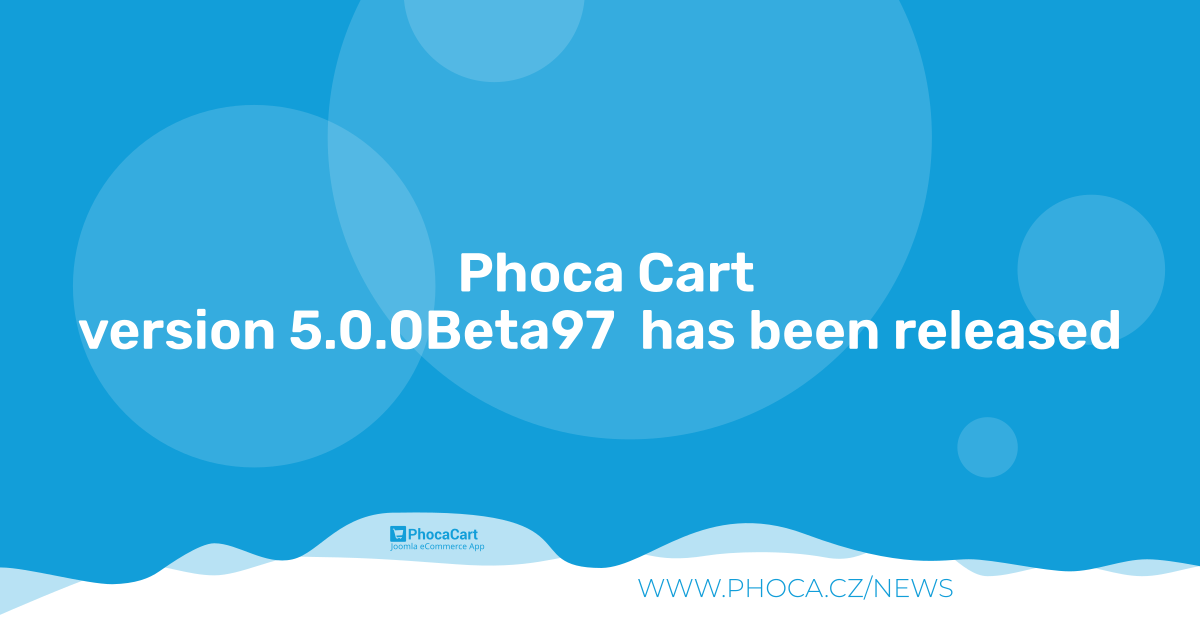
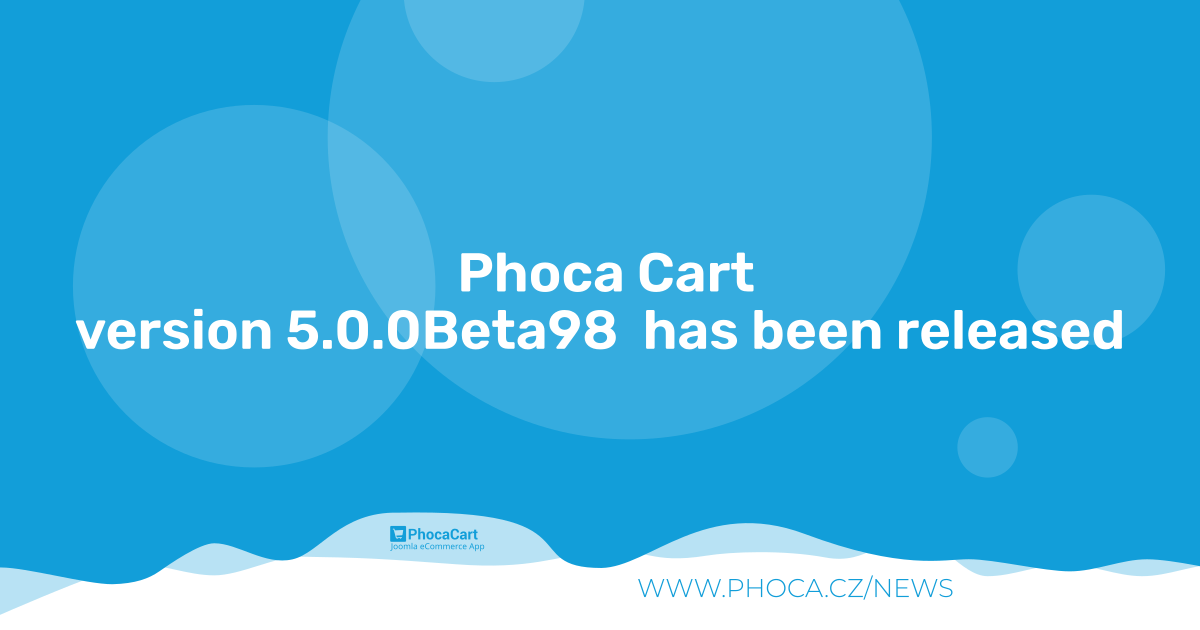
5.0.0Beta98

Changed region(s): [[0.0617, 0.4825, 0.9558, 0.573]]

diff --git a/media/css/administrator/theme-dark.css b/media/css/administrator/theme-dark.css
@@ -10,18 +10,20 @@
 	}
 
     .ph-cpanel-logo {
-        padding: 0.5em;
-        background: rgb(255,255,255, 0.5);
-        margin-bottom: 1em
+       /* padding: 0.5em;
+        background: rgb(255,255,255, 0.5);*/
+        margin-bottom: 1em;
+    }
+
+    .ph-cpanel-logo img {
+        filter: invert(1) brightness(2);
+        width: 16rem;
     }
 
     .ph-box-info .ph-cpanel-logo {
         display: inline-block;
     }
 
-    .ph-box-info .ph-cpanel-logo img {
-        max-width: 100%;
-    }
 
     .ph-cp-item-icon {
         background: rgb(72, 86, 106);

diff --git a/media/css/administrator/phocacart.css b/media/css/administrator/phocacart.css
@@ -1691,10 +1691,13 @@ table.ph-report-table tr.ph-report-total-row td.ph-report-total-col1 {
 	border-top: 3px solid #eee;
 	margin-bottom: 1em;
 }
+.ph-cpanel-logo {
+	margin-bottom: 1em;
+}
 .ph-cpanel-logo img {
 	/*transform: scale(0.6);
 	transform-origin: 0 50%;*/
-	max-width: 70%;
+	width: 16rem;
 	height: auto;
 }
 

diff --git a/admin/views/phocacartinfo/tmpl/default.php b/admin/views/phocacartinfo/tmpl/default.php
@@ -19,7 +19,7 @@ echo $r->startCp();
 echo '<div class="ph-box-info">';
 
 echo '<div style="float:right;margin:10px;">' . HTMLHelper::_('image', $this->t['i'] . 'logo-phoca.png', 'Phoca.cz' ) .'</div>'
-	. '<div class="ph-cpanel-logo">'.HTMLHelper::_('image', $this->t['i'] . 'logo-'.str_replace('phoca', 'phoca-', $this->t['c']).'.png', 'Phoca.cz') . '</div>'
+	. '<div class="ph-cpanel-logo">'.HTMLHelper::_('image', $this->t['i'] . 'logo-'.str_replace('phoca', 'phoca-', $this->t['c']).'.svg', 'Phoca.cz') . '</div>'
 	.'<h3>'.Text::_($this->t['component_head']).' - '. Text::_($this->t['l'].'_INFORMATION').'</h3>'
 	.'<div style="clear:both;"></div>';
 

diff --git a/admin/views/phocacartcp/tmpl/default.php b/admin/views/phocacartcp/tmpl/default.php
@@ -149,7 +149,7 @@ echo '<civ class="ph-right-cp">';
 
 
 echo '<div class="ph-extension-info-box ph-cpanel-info-box">';
-echo '<div class="ph-cpanel-logo">'.HTMLHelper::_('image', $this->t['i'] . 'logo-'.str_replace('phoca', 'phoca-', $this->t['c']).'.png', 'Phoca.cz') . '</div>';
+echo '<div class="ph-cpanel-logo">'.HTMLHelper::_('image', $this->t['i'] . 'logo-'.str_replace('phoca', 'phoca-', $this->t['c']).'.svg', 'Phoca.cz') . '</div>';
 echo '<div class="ph-cpanel-logo-seal">'. HTMLHelper::_('image', $this->t['i'] . 'logo-phoca.png', 'Phoca.cz' ).'</div>';
 
 echo '<h3>'.  Text::_($this->t['l'] . '_VERSION').'</h3>'

diff --git a/README.MD b/README.MD
@@ -132,7 +132,7 @@ Phoca Cart is e-commerce extension - powerful shopping cart for Joomla! CMS. Pho
 
 ## Version (Joomla! 5.x)
 
-5.0.0Beta97
+5.0.0Beta98
 
 
 
